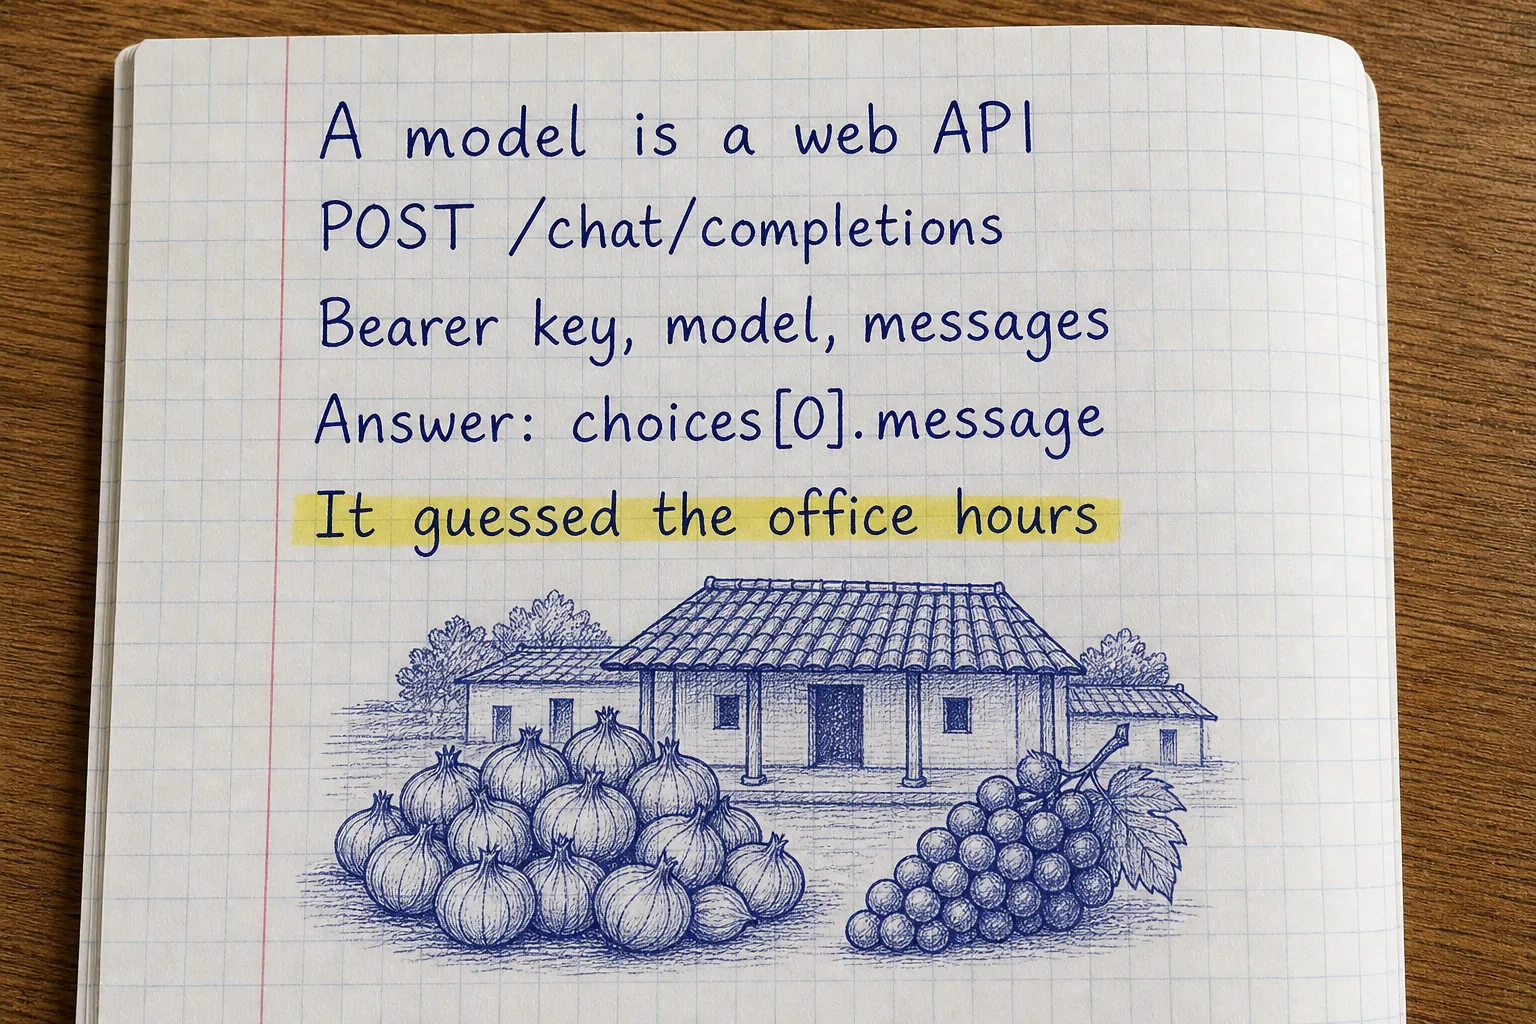
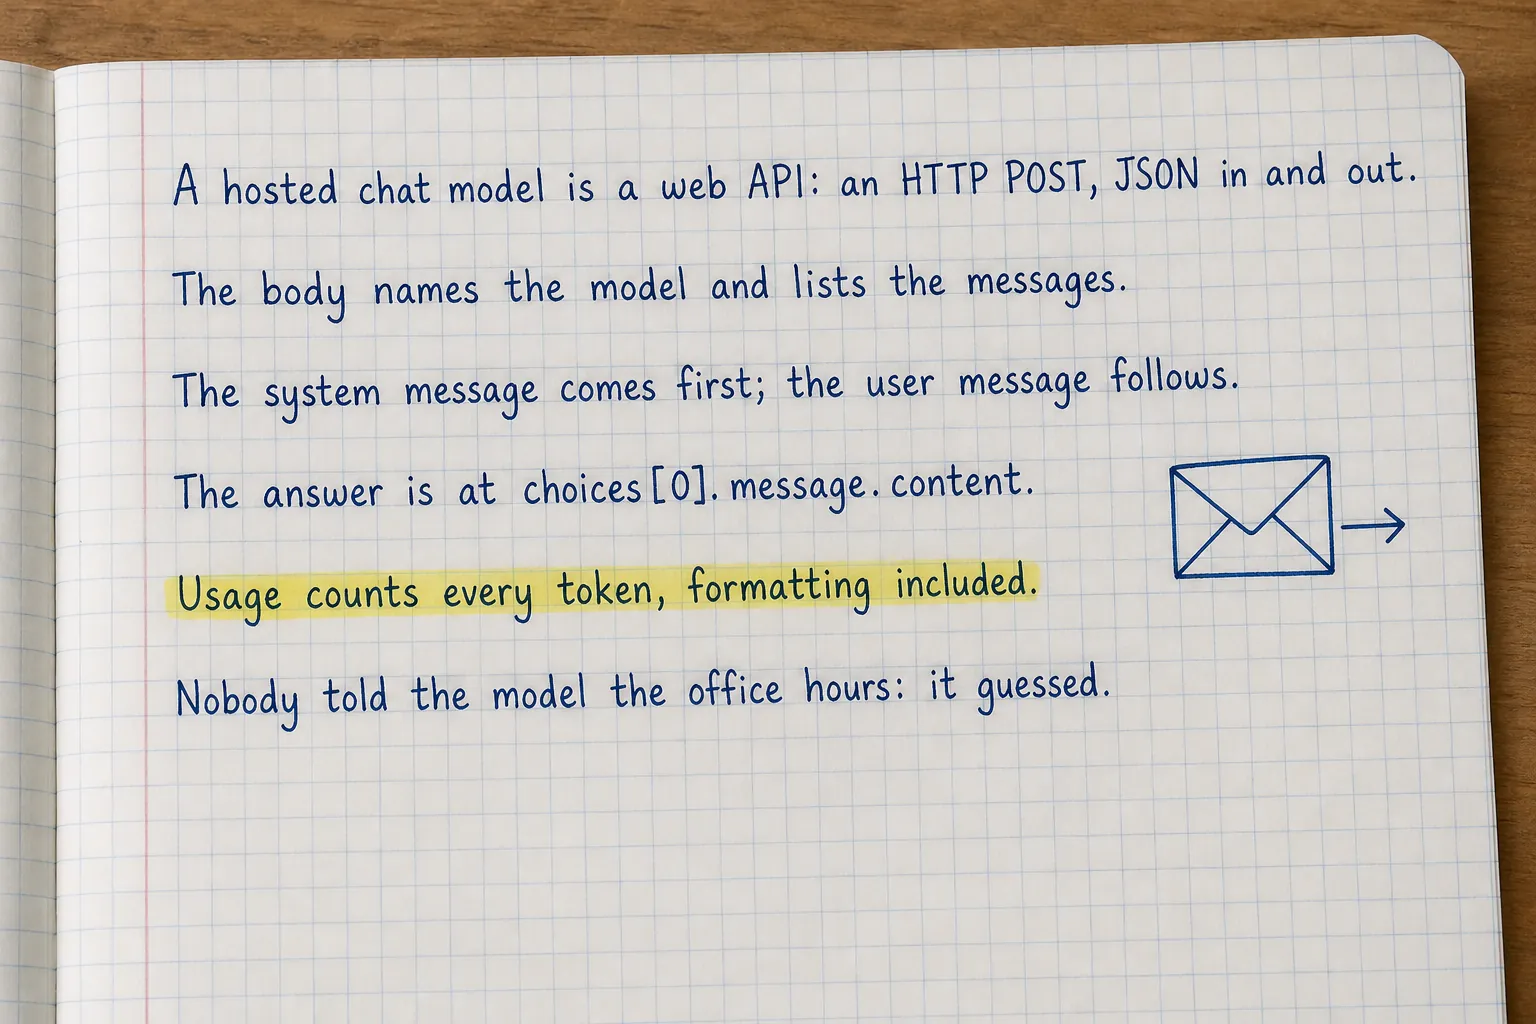
LangChain chapter 5 rewritten: plain and fuller, a still picture of the real request, claims checked against a live run

diff --git a/frontend/src/lesson/Diagrams.tsx b/frontend/src/lesson/Diagrams.tsx
@@ -2285,19 +2285,28 @@ function LcNextToken() {
 }
 
 function LcChatRequest() {
+  // Still (owner, 25 November): one real request of chapter 5, there and back, with the real numbers from the
+  // gateway's log (lab requests --last).
+  const stops: [string, string, string, BoxTone][] = [
+    ["your program (lab machine)", "POST .../chat/completions", "model ai-chat, system + user message, lab token", "plain"],
+    ["LabBox gateway", "checks the token and budget", "adds max_tokens 1024, swaps in the real key", "accent"],
+    ["OpenAI: gpt-4o-mini", "writes the answer", "one token at a time (chapter 4)", "plain"],
+    ["back to your program", "JSON reply", "choices[0].message.content, usage: 61 in, 38 out", "copy"],
+  ];
   return (
-    <SketchSteps
-      title="one chat request, there and back"
-      intro="Press Play to follow Navin's first question."
-      label="Python posts the model name and messages with a lab token; the gateway checks it and calls OpenAI with the real key; the answer and the token usage come back as JSON"
-      steps={[
-        { label: "1. Python builds JSON", says: "model ai-chat, a system message, and the member's question." },
-        { label: "2. POST with a token", says: "To OPENAI_BASE_URL/chat/completions, with Authorization: Bearer and the lab token." },
-        { label: "3. The gateway", says: "Checks the token and the budget, adds max_tokens 1024, and calls OpenAI with the real key." },
-        { label: "4. The model", says: "gpt-4o-mini writes the answer, one token at a time." },
-        { label: "5. JSON comes back", says: "choices[0].message.content holds the answer; usage says 61 in, 38 out." },
-      ]}
-    />
+    <Svg viewBox="0 0 440 346" label="Chapter 5's request goes from the lab machine to the LabBox gateway, which calls OpenAI; the JSON answer and its usage come back">
+      {stops.map(([who, what, detail, tone], i) => {
+        const y = 4 + i * 86;
+        return (
+          <g key={who}>
+            <Box x={0} y={y} w={440} h={60} label="" tone={tone} />
+            <text className="dg-label" x={14} y={y + 22}>{who}: {what}</text>
+            <text className="dg-note" x={14} y={y + 44}>{detail}</text>
+            {i < stops.length - 1 && <Arrow x1={220} y1={y + 62} x2={220} y2={y + 84} />}
+          </g>
+        );
+      })}
+    </Svg>
   );
 }
 

diff --git a/labs/langchain/chapters/05-raw-http.md b/labs/langchain/chapters/05-raw-http.md
@@ -1,7 +1,10 @@
 :::step{type=story title="What is actually sent?"}
 Part 1 explained what happens inside a model. Part 2 is about calling one, and it starts with the simplest possible
-way: no AI library at all. A chat model is a **web API**. Navin sends an HTTP request with some JSON, and a JSON answer
-comes back. Everything later in this course, the OpenAI SDK, LangChain, agents, is built on that one request.
+way: no AI library at all. A hosted chat model, like the one behind Navin, is a **web API**: a program on another computer that you use by
+sending it requests over the internet. (Models can also run on your own machine, behind local servers like Ollama; the history below says
+more.)
+Navin sends an **HTTP request** (the kind of message a browser sends to load a page) carrying some **JSON** (text in
+the form of keys and values, like a Python dict), and a JSON answer comes back. Everything later in this course, the OpenAI SDK, LangChain, agents, is built on that one request.
 
 Knowing the raw request pays off for the rest of your career: when a library does something surprising, you can look
 at what it really sent.
@@ -12,7 +15,8 @@ Send Navin's first question to a real model with one HTTP POST, then read the an
 :::
 
 :::step{type=concept title="One request, four parts" file="05-raw-http/http_call.py" line="9-17"}
-Every chat call is a POST to `<base URL>/chat/completions` with:
+Every chat call is a **POST** (the HTTP method for sending data, not just fetching a page) to
+`<base URL>/chat/completions`, with:
 
 | Part | Here | Why |
 |---|---|---|
@@ -24,11 +28,13 @@ Every chat call is a POST to `<base URL>/chat/completions` with:
 The **system** message is how you tell the model who it is and how to behave; the **user** message is what the member
 typed. Later, **assistant** messages hold the model's own earlier answers.
 
-Your lab machine has both environment variables set: run `echo $OPENAI_BASE_URL` in the terminal. The key is a lab
+A **header** is a line of extra information sent with the request; `Authorization` says who is asking. An
+**environment variable** is a named setting the machine gives every program; your lab machine has both set: run
+`echo $OPENAI_BASE_URL` in the terminal. The key is a lab
 token: the real OpenAI key never leaves the LabBox server.
 
 :::diagram{name="lc-chat-request"}
-The request goes through LabBox's gateway to OpenAI, and the answer and token usage come back as JSON.
+Chapter 5's real request, there and back, with the numbers from the gateway's log.
 :::
 
 **Tim Berners-Lee** invented the World Wide Web and its protocol, HTTP, at CERN between 1989 and 1991. Every call to a model in this course is one of his HTTP requests.
@@ -45,9 +51,9 @@ chat, every application glued the conversation into one long text in its own for
 :::
 
 On **1 March 2023** OpenAI released the **Chat Completions API** with gpt-3.5-turbo: messages with roles (system, user,
-assistant) instead of one blob of text. It was simple enough that nearly every other provider and model server, from
-Mistral to local servers like Ollama and vLLM, now offers the same request format, which is why one LangChain class
-can talk to so many of them.
+assistant) instead of one blob of text. It was simple enough that many other providers and model servers, including the local servers Ollama
+and vLLM, now offer an endpoint that accepts the same request, which is why one LangChain class can talk to so many of
+them.
 
 :::solved
 **One shape for many models.** Learn this request once and you can read the traffic of almost any AI application.
@@ -56,7 +62,7 @@ can talk to so many of them.
 :::timeline
 - **2020** The OpenAI API with GPT-3: completions.
 - **2023** Chat Completions: messages with roles.
-- **2024** The format becomes the industry's common language.
+- **2024** Many servers accept the same request format.
 :::
 :::
 
@@ -75,15 +81,26 @@ data = response.json()                                            # the JSON rep
 :::
 
 :::step{type=task task=send_request title="Your turn: send the request" file="05-raw-http/http_call.py" line="12-15"}
-Finish the first part of `ask(question)`: POST to `url` with the `Authorization: Bearer <key>` header and a JSON body
-with `"model": "ai-chat"` and the two messages (system with `SYSTEM`, then user with the question). Keep the reply's
-JSON in `reply`.
+Finish the first part of `ask(question)`. `url` and `key` are already read from the environment variables.
+
+1. Build the body: `{"model": "ai-chat", "messages": [...]}` with two messages, first
+   `{"role": "system", "content": SYSTEM}`, then `{"role": "user", "content": question}`.
+2. `httpx.post(url, headers={"Authorization": f"Bearer {key}"}, json=body, timeout=60)`.
+3. `response.raise_for_status()`, then keep `response.json()` in `reply`.
+
+The usual slips:
+
+- Writing `Bearer` without the space after it: the gateway then rejects the key.
+- Putting the user message first: the system message must come first.
 
 Press **Check**.
 :::
 
 :::step{type=task task=read_answer title="Your turn: read the answer" file="05-raw-http/http_call.py" line="16-17"}
-The answer is inside the reply at `choices[0].message.content`. Return it.
+The answer is inside the reply at `choices[0].message.content`. In Python: `reply["choices"][0]["message"]["content"]`.
+Return it.
+
+The usual slip: returning `reply` or `reply["choices"][0]`, which prints a whole dict instead of the answer.
 
 ```bash run
 cd /workspace/05-raw-http && python main.py
@@ -99,6 +116,9 @@ Press **Check**.
 :::
 
 :::step{type=try title="The whole conversation, both ways"}
+A real run (the model's wording changes from run to run; the numbers stayed the same when we ran it again on 25
+November):
+
 ```text
 $ python main.py
 The co-op office is open from 9 AM to 5 PM, Monday to Saturday. It is closed on Sundays. If you need help, feel free to visit during these hours!
@@ -117,9 +137,10 @@ $ lab requests --last
 1. The gateway added `"max_tokens": 1024`: a ceiling on every answer, so no lab can run up a huge bill by accident.
 2. `usage` counts **61** tokens in. Chapter 2's `count_tokens` gives 42 for the system message and 8 for the
    question: 50. The other 11 are the formatting around the two messages, and they are paid for too.
-3. Read the answer. **Nobody told Navin the office hours.** The system message has none. The model wrote the most
-   common office hours it knows, and they happen to match the co-op's. Tomorrow, for a question about something less
-   common, the guess will be wrong and sound just as sure. Chapter 9 deals with that.
+3. Read the answer. **Nobody told Navin the office hours.** The system message has none. The model wrote common office
+   hours, and they happen to match the co-op's (Monday to Saturday, 9:00 to 17:00, from chapter 1). When we ran it
+   again it answered "It is closed on Sundays and public holidays": the holidays are a guess too. For a question about
+   something less common, the guess will be wrong and sound just as sure. Chapter 9 deals with that.
 :::
 
 :::step{type=predict title="Guess first"}
@@ -179,7 +200,7 @@ You can now:
 
 Next, chapter 6: the same call with the official OpenAI Python SDK.
 
-:::photo{src="/lesson-images/langchain/lc-05-notes.webp" alt="Handwritten notes about calling a model over HTTP: A model is a web API; POST /chat/completions; Bearer key, model, messages; Answer: choices[0].message; It guessed the office hours" ai="true"}
+:::photo{src="/lesson-images/langchain/lc-05-notes.webp" alt="Handwritten notes about calling a model over HTTP: A hosted chat model is a web API: an HTTP POST, JSON in and out. The body names the model and lists the messages. The system message comes first; the user message follows. The answer is at choices[0].message.content. Usage counts every token, formatting included. Nobody told the model the office hours: it guessed." ai="true"}
 One page of notes for this chapter.
 :::
 :::

diff --git a/CHANGELOG.md b/CHANGELOG.md
@@ -1,5 +1,16 @@
 # Changelog
 
+## 25 November: LangChain chapter 5 rewritten (easy, a little detailed, checked)
+
+- Web API, HTTP request, POST, JSON, header and environment variable are explained where they first appear; both
+  tasks list their steps and the usual slips.
+- The request animation is now a still picture of the real request, there and back, with the gateway's numbers.
+- Checked by running the real request through the lab gateway (approved) and reading `lab requests --last`: 61 tokens
+  in, 38 out, max_tokens 1024 added, 42 + 8 tokens counted locally. A second run guessed "closed on public holidays"
+  too, now in the lesson. Corrected: "a chat model is a web API" became "a hosted chat model" (models can run locally);
+  "nearly every provider, from Mistral to ..." became "many providers and servers, including Ollama and vLLM". A new
+  notes page.
+
 ## 25 November: LangChain chapter 4 rewritten (easy, a little detailed, checked)
 
 - Logit, softmax, exp, temperature, query, key, value, heads and parameters are explained where they first appear;
